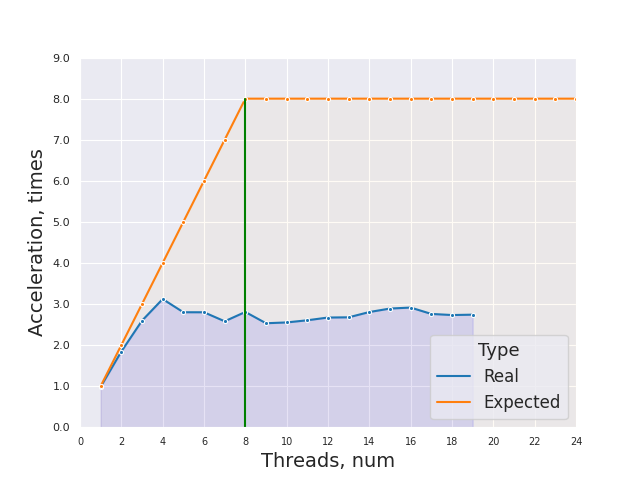
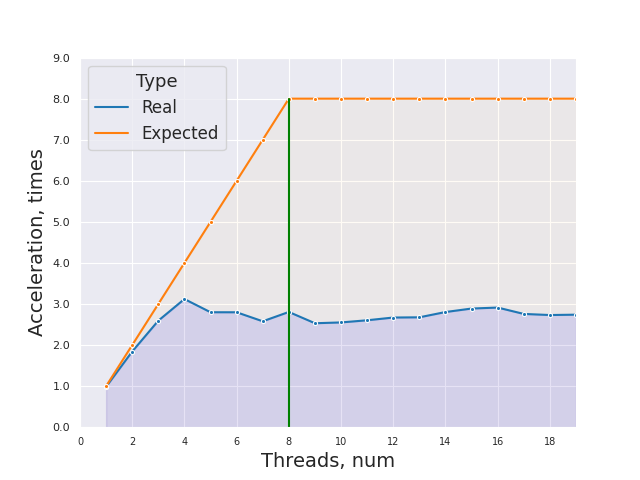
Update images

diff --git a/lab3/images/graph.py b/lab3/images/graph.py
@@ -69,7 +69,7 @@ def get_plot(ylabel, unit, unitbound, threadbound, filename, all_ts, ymax, cores
     p.figure.savefig(filename)
 
 
-threadbound = 24
+threadbound = 19
 cores = 8
 ts = ts[:threadbound]
 
